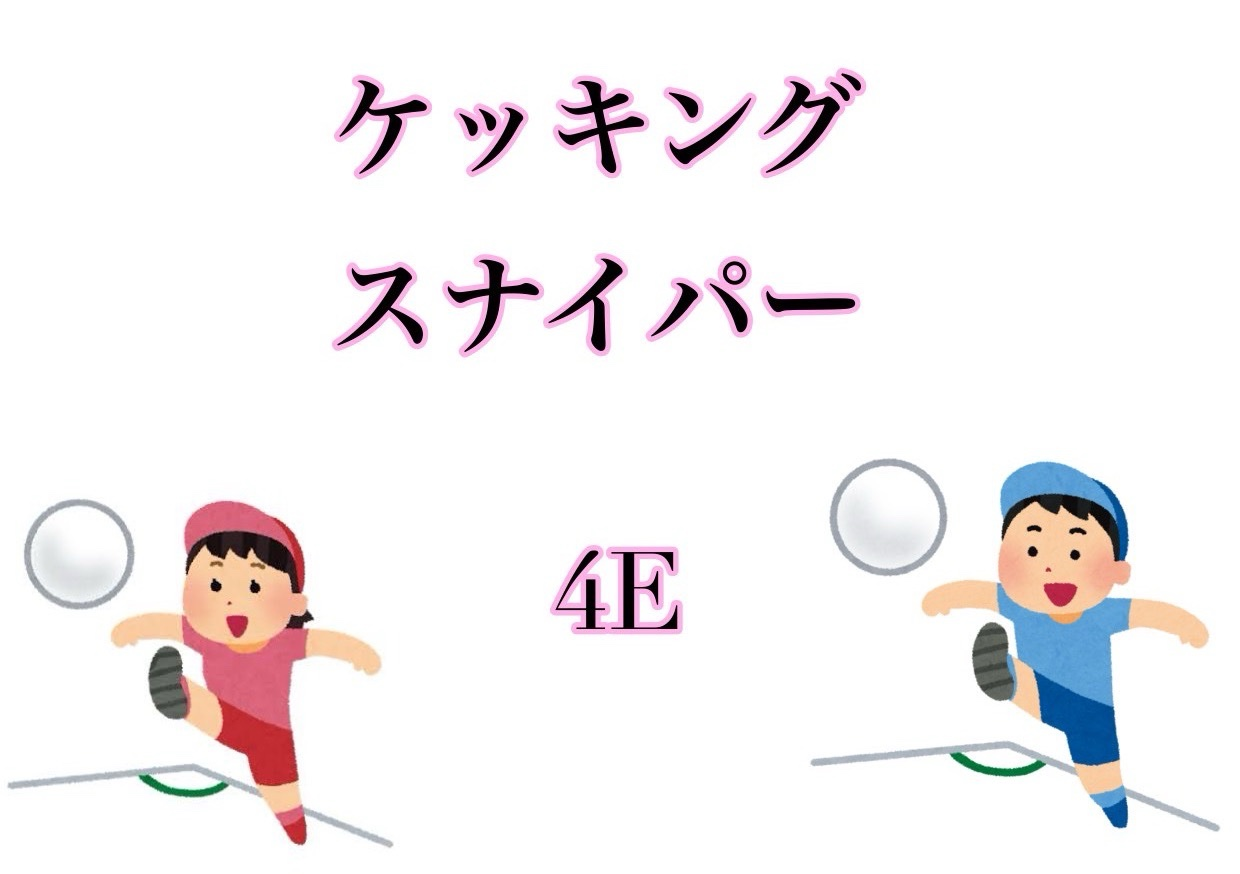
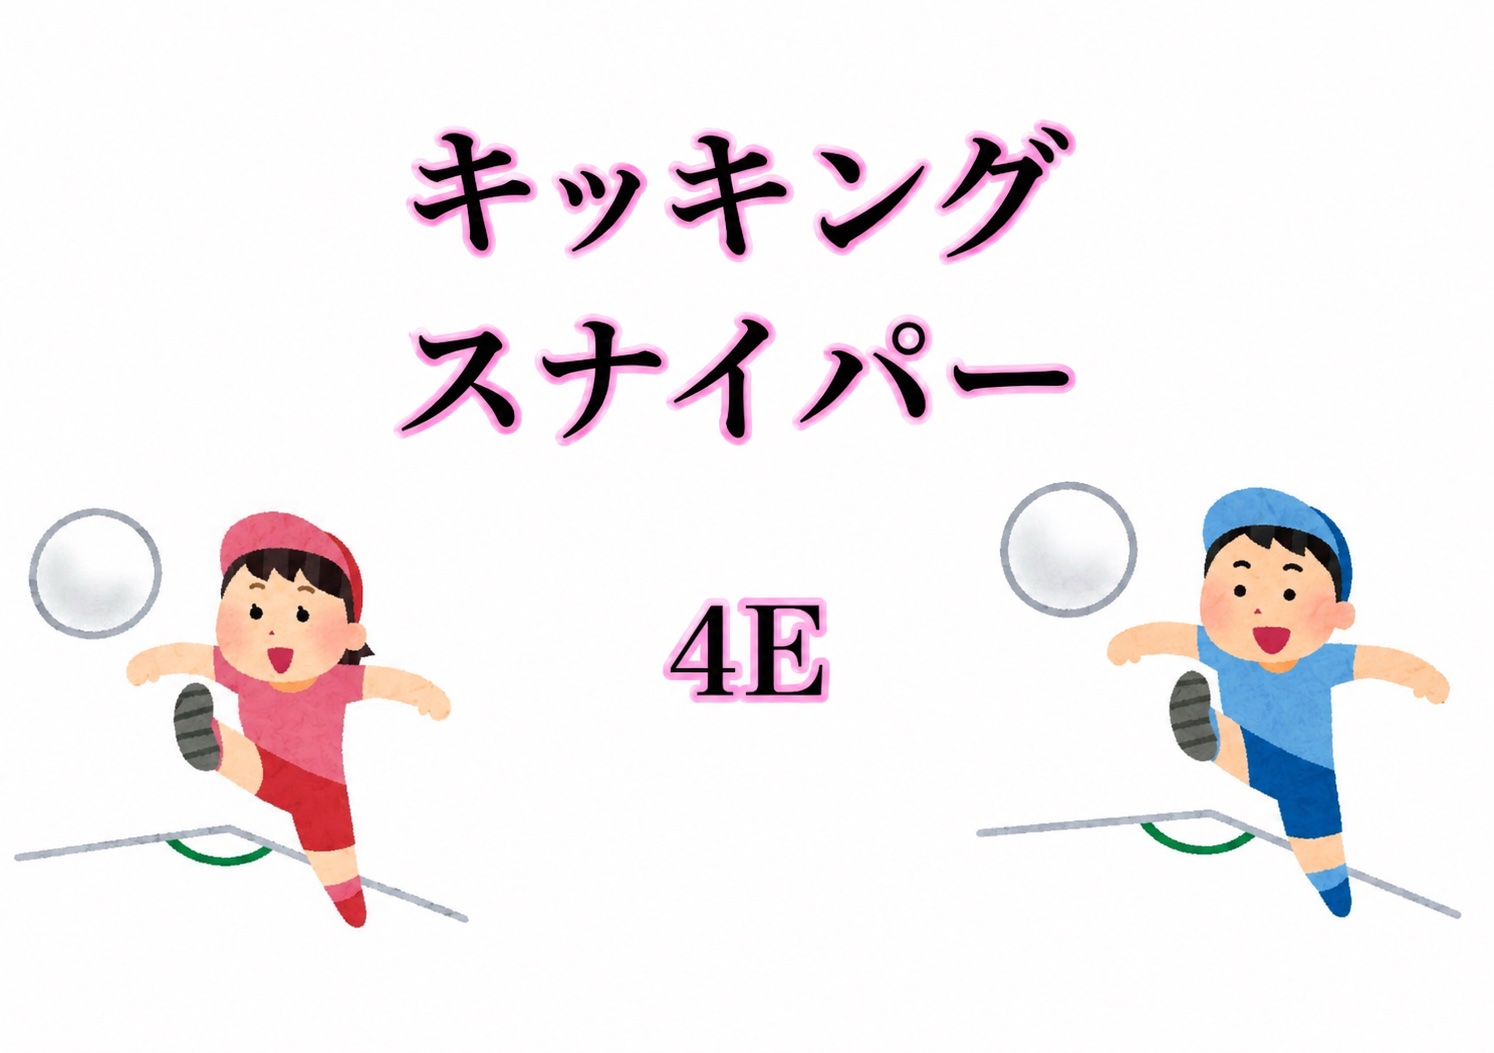
1021_9

diff --git a/app/page.tsx b/app/page.tsx
@@ -446,7 +446,7 @@ const STALLS_DATA: StallItem[] = [
   },
   {
     id: 310,
-    title: "ボードゲーム有志（ボードゲームブース）",
+    title: "ボードゲーム（有志）",
     category: "部活動企画",
     grade: "有志",
     dept: "有志",
@@ -779,10 +779,10 @@ const STALLS_DATA: StallItem[] = [
   },
   {
     id: 309,
-    title: "ロボット技術研究部（高専ロボコン展示＆体験）",
+    title: "ロボット展示・体験（ロボ研）",
     category: "部活動企画",
     grade: "部活",
-    dept: "ロボット技術研究部",
+    dept: "ロボ研",
     location: "総合メディアセンター 1階 多目的交流室",
     zoneId: "media_center",
     floor: "1階",
@@ -1646,6 +1646,15 @@ export default function Page() {
       });
     }
 
+    // 1号館の場合は美術写真部（id: 302）を天文部（id: 301）より前にソート
+    if (selectedZoneId === "bldg1") {
+      list = [...list].sort((a, b) => {
+        if (a.id === 302 && b.id === 301) return -1;
+        if (a.id === 301 && b.id === 302) return 1;
+        return 0;
+      });
+    }
+
     return list;
   }, [selectedZoneId]);
 
@@ -1662,9 +1671,9 @@ export default function Page() {
 
   const overlayScale = zoomLevel / 3.0;
 
-  const titlePart1 = ["熱", "狂", "の"];
-  const titlePart2 = ["カ", "ー", "ニ", "バ", "ル"];
-  const titlePart3 = ["高", "専", "祭"];
+  // タイトル文字用配列（アニメーション用）
+  const titlePartMain = ["熱", "狂", "の", "高", "専", "祭"];
+  const titlePartSub = ["カ", "ー", "ニ", "バ", "ル"];
 
   if (!isEntered) {
     return (
@@ -1715,49 +1724,43 @@ export default function Page() {
             TSURUOKA KOSEN FESTIVAL 2026
           </div>
 
+          {/* 修正後のTOPタイトル表示エリア */}
           <div className="flex flex-col items-center justify-center font-black tracking-tight font-sans my-2">
-            <div className="text-xl sm:text-2xl font-black text-slate-800 tracking-wider mb-1 flex items-center justify-center gap-1.5 drop-shadow-sm">
-              <span className="text-amber-500">🔍</span>
-              <span>名探偵nittc</span>
+            {/* 上段：「名探偵 nittc」 */}
+            <div className="flex items-baseline justify-center gap-1.5 mb-1">
+              <span className="text-2xl sm:text-3xl font-black italic text-blue-700 tracking-tight drop-shadow-[0_2px_2px_rgba(0,0,0,0.4)]">
+                名探偵
+              </span>
+              <span className="text-5xl sm:text-6xl font-black italic text-cyan-400 tracking-tighter drop-shadow-[0_3px_0px_rgba(29,78,216,1)] ml-0.5">
+                nittc
+              </span>
             </div>
 
-            <div className="flex items-baseline justify-center text-[#E53935] drop-shadow-md scale-110 sm:scale-125 my-2">
-              <div className="text-5xl sm:text-7xl flex">
-                {titlePart1.map((char, index) => (
+            {/* 下段：「熱狂の高専祭」＋ 右下に「カーニバル」 */}
+            <div className="relative flex items-end justify-center text-[#E53935] drop-shadow-[0_4px_6px_rgba(0,0,0,0.3)] my-1">
+              <div className="text-5xl sm:text-7xl font-black flex tracking-tight">
+                {titlePartMain.map((char, index) => (
                   <span
                     key={index}
                     className="animate-drop-char"
-                    style={{ animationDelay: `${index * 0.18}s` }}
+                    style={{ animationDelay: `${index * 0.15}s` }}
                   >
                     {char}
                   </span>
                 ))}
               </div>
 
-              <div className="relative inline-block ml-2">
-                <span className="absolute -top-6 left-1/2 -translate-x-1/2 text-xs sm:text-sm font-black text-rose-500 tracking-widest whitespace-nowrap flex">
-                  {titlePart2.map((char, index) => (
-                    <span
-                      key={index}
-                      className="animate-drop-char"
-                      style={{ animationDelay: `${0.6 + index * 0.15}s` }}
-                    >
-                      {char}
-                    </span>
-                  ))}
-                </span>
-
-                <div className="text-6xl sm:text-8xl flex">
-                  {titlePart3.map((char, index) => (
-                    <span
-                      key={index}
-                      className="animate-drop-char"
-                      style={{ animationDelay: `${1.3 + index * 0.18}s` }}
-                    >
-                      {char}
-                    </span>
-                  ))}
-                </div>
+              {/* 「祭」の右下に小さくカーニバル */}
+              <div className="absolute -bottom-3 -right-6 sm:-right-8 flex text-[10px] sm:text-xs font-black text-rose-600 tracking-widest whitespace-nowrap">
+                {titlePartSub.map((char, index) => (
+                  <span
+                    key={index}
+                    className="animate-drop-char"
+                    style={{ animationDelay: `${0.9 + index * 0.12}s` }}
+                  >
+                    {char}
+                  </span>
+                ))}
               </div>
             </div>
           </div>
@@ -3017,22 +3020,24 @@ export default function Page() {
                         </div>
 
                         <div className="w-[580px] h-[320px] relative bg-white">
-                          <div className="absolute top-[18px] right-[24px] text-base font-black text-slate-900">
+                          {/* 4号館の表示位置を少し上にずらして重なりを解消 (-top-6) */}
+                          <div className="absolute -top-6 right-[24px] text-base font-black text-slate-900">
                             4号館
                           </div>
 
                           {/* 1. 上部横廊下（グレー） */}
                           <div className="absolute top-[50px] left-0 w-full h-8 bg-neutral-600">
+                            {/* かるた体験の大きさを111教室と同じ w-[62px] h-[88px] に修正 */}
                             <button
                               onClick={() => {
                                 const stall = getRoomStall("411") || getRoomStall("かるた");
                                 if (stall) setModalItem(stall);
                               }}
-                              className="absolute -top-5 right-[30px] w-[95px] h-[80px] border-[2.5px] border-blue-600 bg-blue-50 text-blue-950 rounded-xl p-1 flex flex-col items-center justify-center font-black hover:bg-blue-100 hover:scale-105 transition shadow-md cursor-pointer text-center leading-tight z-30"
+                              className="absolute -top-5 right-[30px] w-[62px] h-[88px] border-[2.5px] border-blue-600 bg-blue-50 text-blue-950 rounded-xl p-0.5 flex flex-col items-center justify-center font-black hover:bg-blue-100 hover:scale-105 transition shadow-md cursor-pointer text-center leading-tight z-30"
                             >
                               <span className="text-base leading-none mb-0.5">🥋</span>
-                              <span className="text-xs font-black leading-none">411</span>
-                              <span className="text-[10px] font-extrabold leading-tight">かるた体験</span>
+                              <span className="text-[11px] font-black leading-none">411</span>
+                              <span className="text-[10px] font-extrabold leading-tight line-clamp-1">かるた体験</span>
                               <span className="text-[8px] text-blue-800 font-bold leading-none mt-0.5">(有志)</span>
                             </button>
                           </div>
@@ -3080,7 +3085,7 @@ export default function Page() {
                             <ToiletIcon />
                           </div>
 
-                          {/* △右（階段の下）の「金券販売」と「学校紹介ブース」 */}
+                          {/* 右（階段の下）の「金券販売」と「学校紹介ブース」 */}
                           <div className="absolute top-[232px] left-[330px] flex flex-col gap-1 z-30">
                             <button
                               onClick={() => {
@@ -3188,12 +3193,13 @@ export default function Page() {
                             <span className="text-[10px] font-black text-white tracking-tight">7号館へ ↓</span>
                           </div>
 
+                          {/* 中会議室の大きさを小会議室と同じ w-[62px] h-[88px] に修正 */}
                           <button
                             onClick={() => {
                               const stall = getRoomStall("中会議室") || getRoomStall("ボードゲーム");
                               if (stall) setModalItem(stall);
                             }}
-                            className="absolute top-[26px] right-0 w-[90px] h-[88px] border-[2.5px] border-blue-600 bg-blue-50 text-blue-950 rounded-xl p-0.5 flex flex-col items-center justify-center font-black hover:bg-blue-100 hover:scale-105 transition shadow-md cursor-pointer text-center leading-tight z-30"
+                            className="absolute top-[26px] right-0 w-[62px] h-[88px] border-[2.5px] border-blue-600 bg-blue-50 text-blue-950 rounded-xl p-0.5 flex flex-col items-center justify-center font-black hover:bg-blue-100 hover:scale-105 transition shadow-md cursor-pointer text-center leading-tight z-30"
                           >
                             <span className="text-base mb-0.5">🎲</span>
                             <span className="text-[11px] font-black">中会議室</span>
@@ -3456,8 +3462,8 @@ export default function Page() {
                           >
                             <span className="text-base mb-0.5">🤖</span>
                             <span className="text-xs font-black">多目的交流室</span>
-                            <span className="text-blue-900 font-extrabold text-[10px]">ロボコン展示・体験</span>
-                            <span className="text-[8px] text-blue-800 font-bold">(ロボット部)</span>
+                            <span className="text-blue-900 font-extrabold text-[10px]">ロボット展示・体験</span>
+                            <span className="text-[8px] text-blue-800 font-bold">(ロボ研)</span>
                           </button>
                         </div>
                         <div className="flex items-center gap-2 pt-1">
